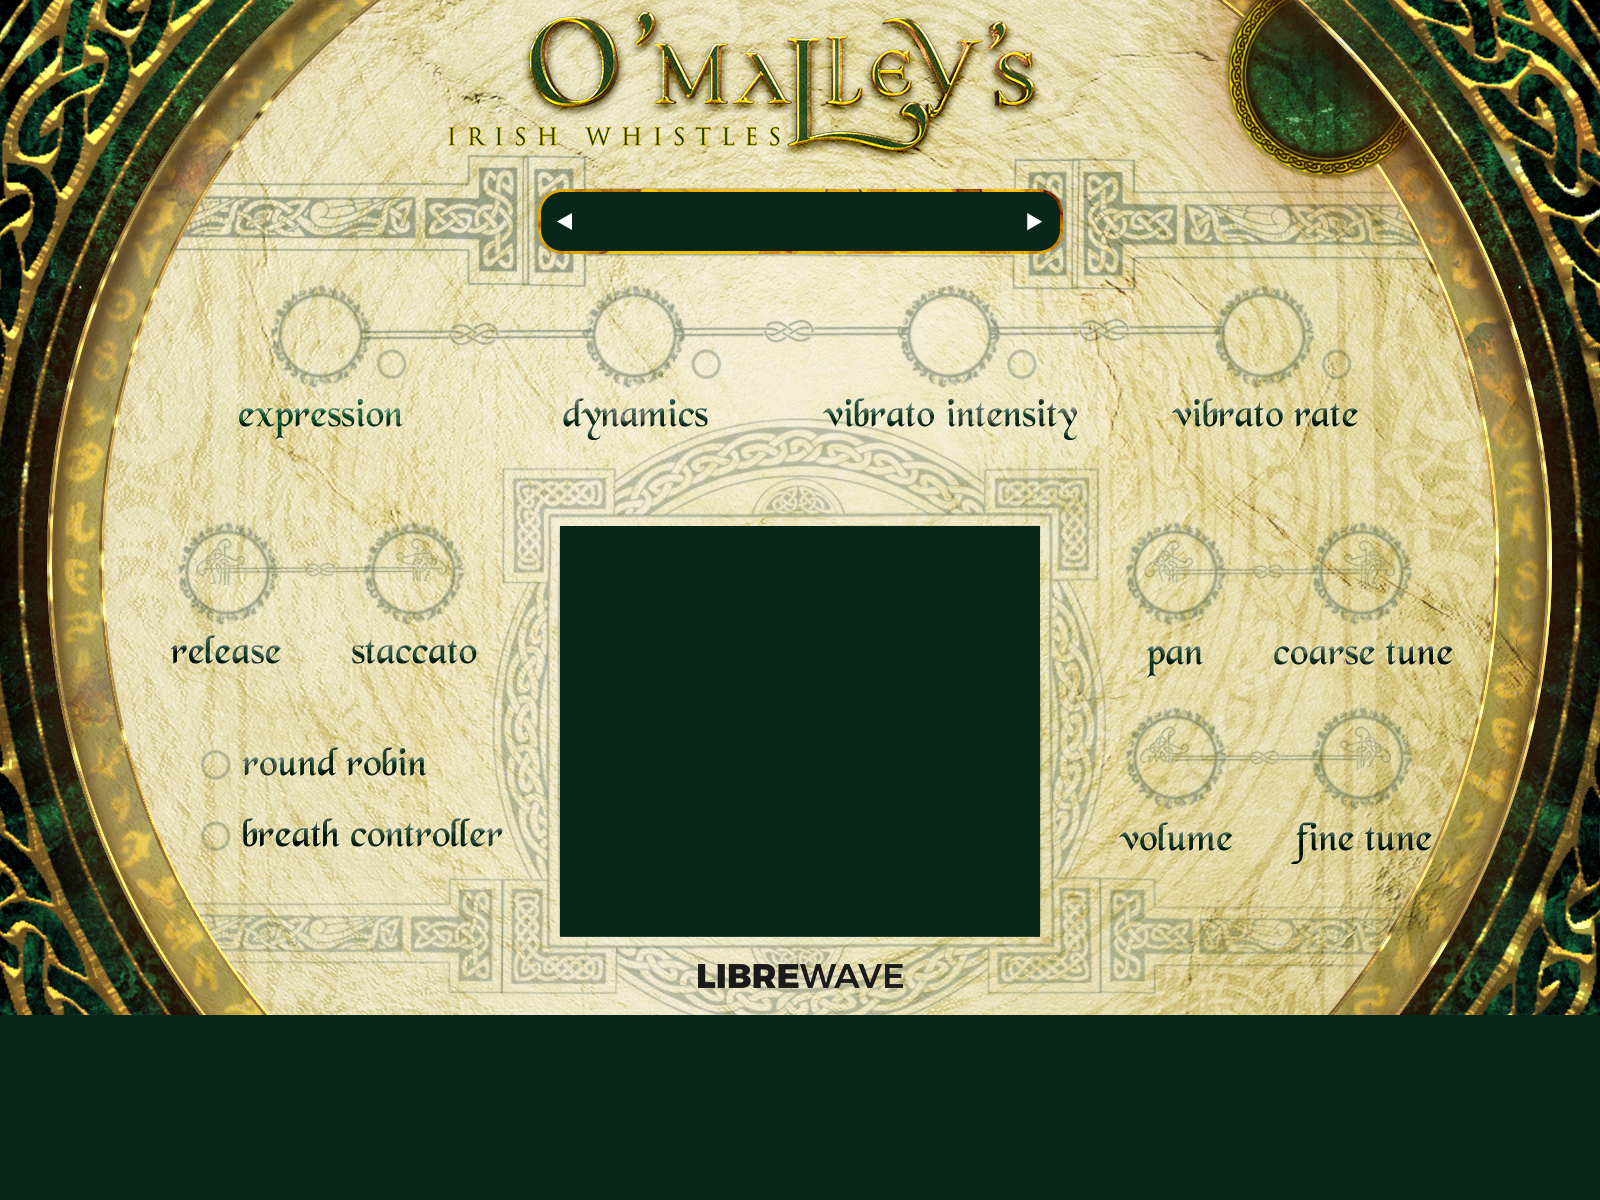
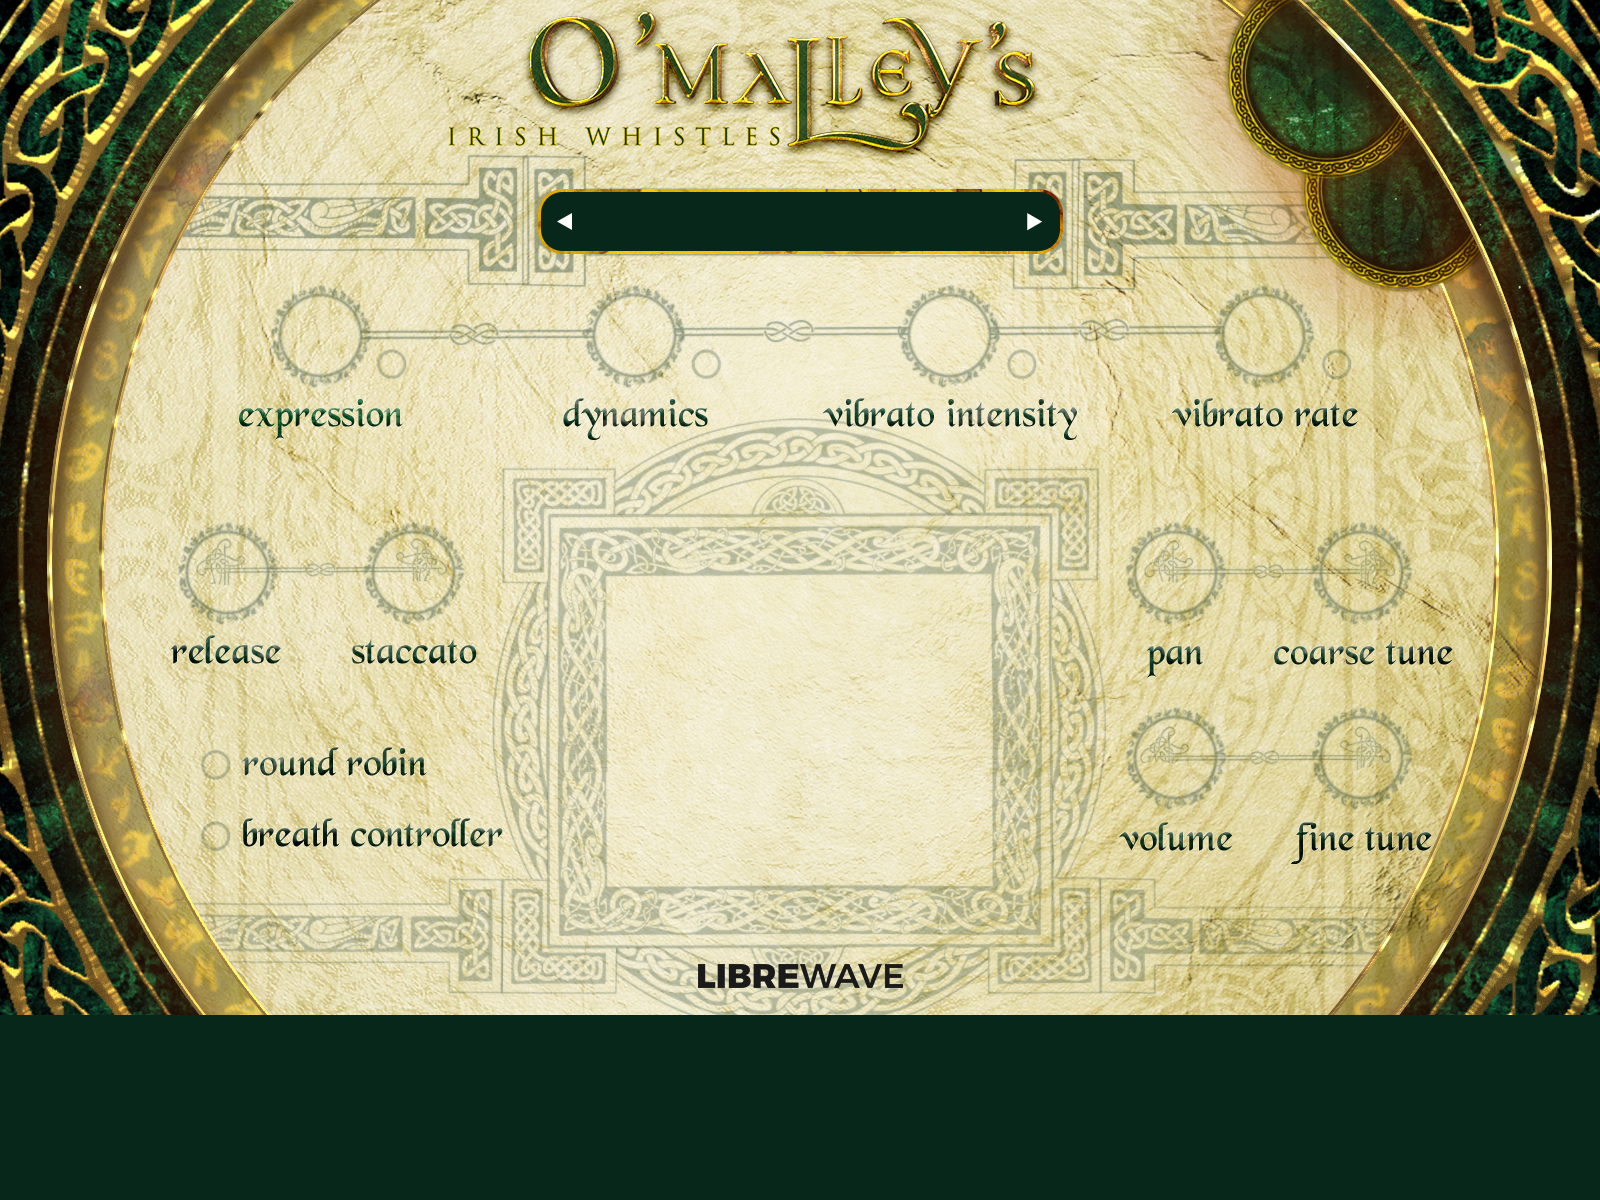
Added help button and tweaked layout

Changed region(s): [[0.3438, 0.4317, 0.6562, 0.8017], [0.7812, 0.1233, 0.9375, 0.2775]]

diff --git a/Scripts/ScriptProcessors/irishWhistles/Interface.js b/Scripts/ScriptProcessors/irishWhistles/Interface.js
@@ -253,34 +253,16 @@ Content.getComponent("btnURL").setControlCallback(onbtnURLControl);
 //Docs button
 const var btnDocs = Content.getComponent("btnDocs");
 
-btnDocs.setPaintRoutine(function(g)
-{   
-    this.data.hover ? g.setColour(this.get("bgColour")) : g.setColour(this.get("itemColour"));
-    g.fillPath(Paths.fontawesome.solid["question-circle"], [0, 0, this.getWidth(), this.getHeight()]);
-});
-
-btnDocs.setMouseCallback(function(e)
-{
-    if (e.mouseUp)
-    {
-        this.setValue(1-this.getValue());
-        this.changed();
-    }
-    else
-    {
-        this.data.hover = e.hover;
-        this.repaint();
-    }
-});
-
 btnDocs.setControlCallback(onbtnDocsControl);
 inline function onbtnDocsControl(component, value)
 {
-	pnlDocs.showControl(value);
+    if (!value) pnlDocs.showAsPopup(true);
+    component.setValue(1);
 };
 
 //Docs panel
 const var pnlDocs = Content.getComponent("pnlDocs");
+pnlDocs.setIsModalPopup(true);
 
 pnlDocs.setPaintRoutine(function(g)
 {
